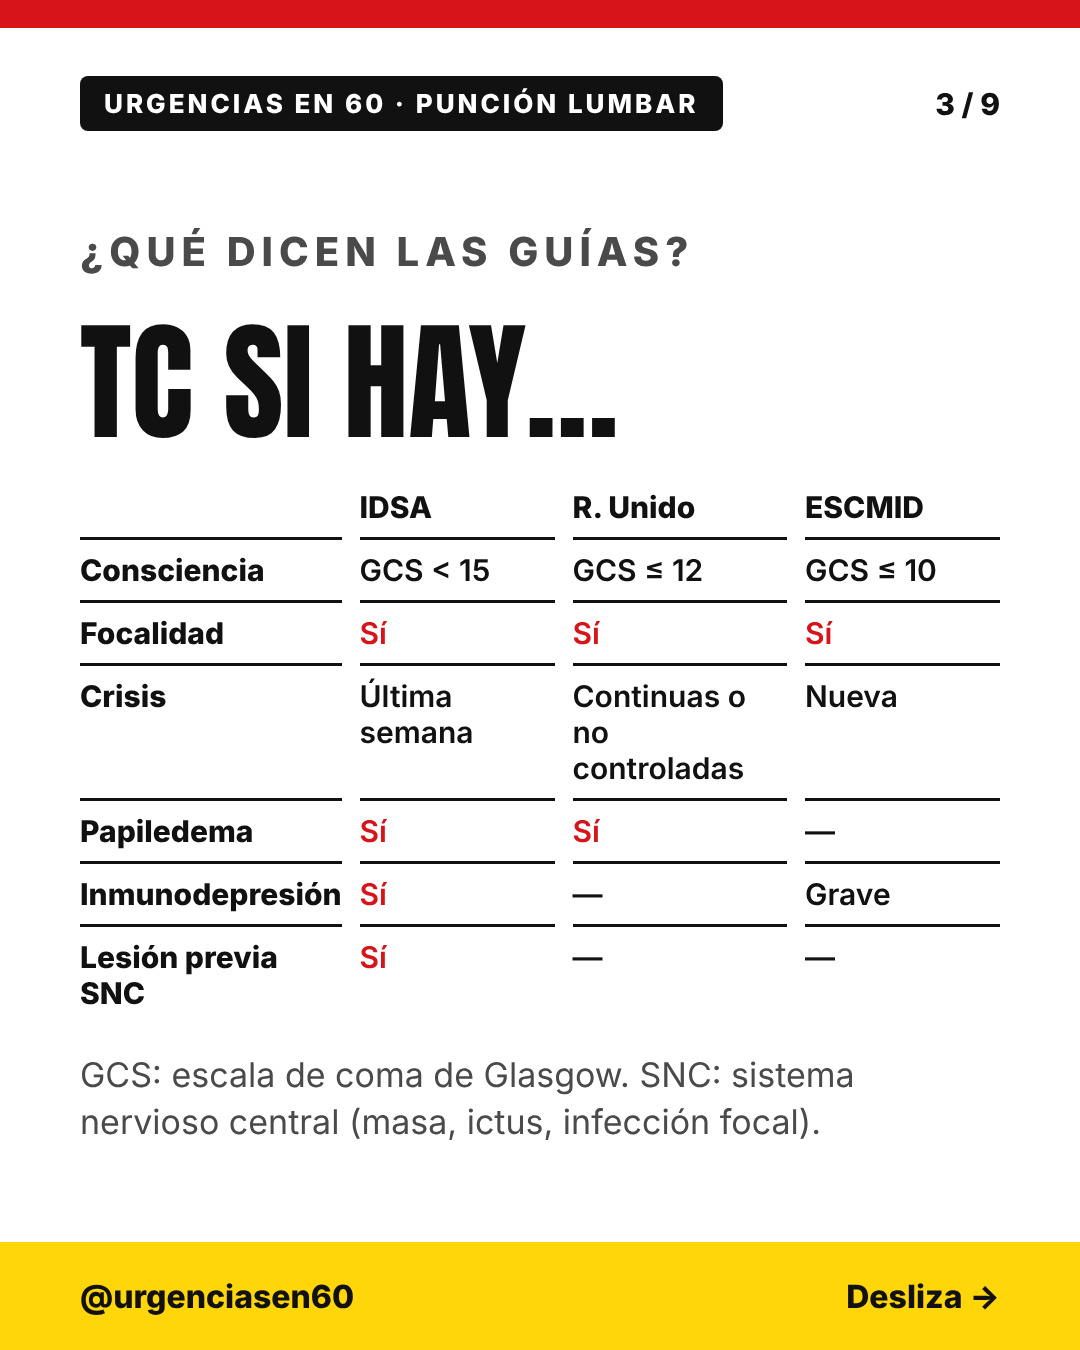
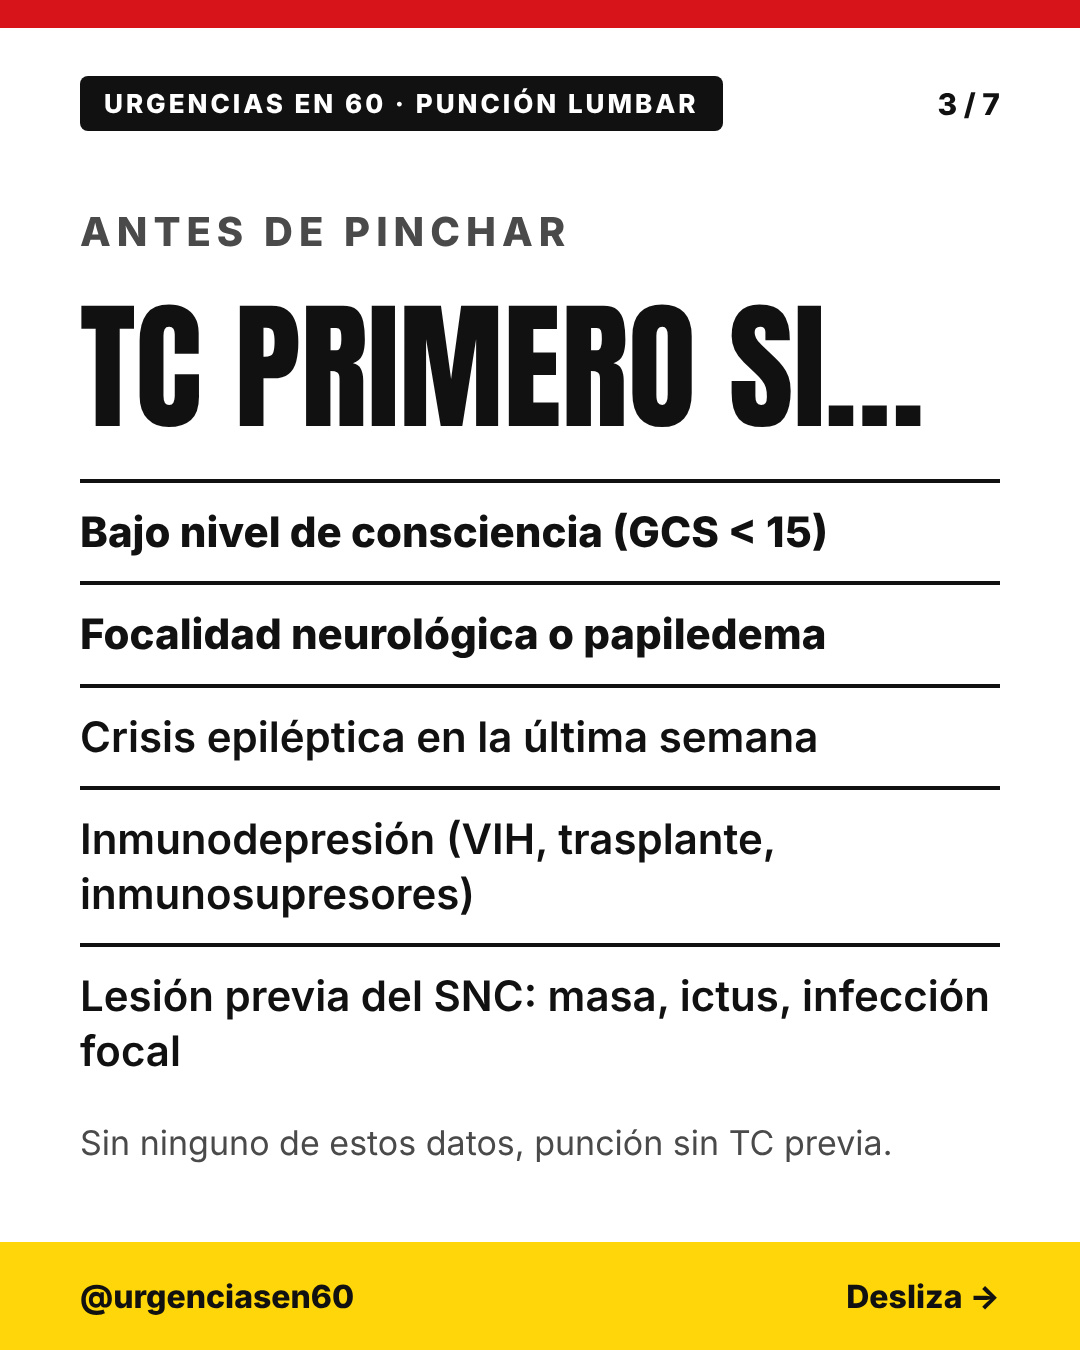
Ficha 08 práctica: indicaciones y contraindicaciones en Urgencias, sin comparativas
Claude-Session: https://claude.ai/code/session_019S5PG2ppqwuZwMv2DxeA6e

Changed region(s): [[0.0611, 0.1556, 0.9167, 0.8711], [0.8556, 0.0622, 0.9167, 0.0933], [0.7333, 0.5911, 0.7944, 0.6222]]

diff --git a/tools/pl_tc.py b/tools/pl_tc.py
@@ -1,24 +1,15 @@
 import os, sys; sys.path.insert(0, os.path.dirname(os.path.abspath(__file__)))
 from ficha import *
-T="PUNCIÓN LUMBAR"; N=9
+T="PUNCIÓN LUMBAR"; N=7
 note=lambda t: f'<div style="font-size:34px;line-height:1.4;color:{G}">{t}</div>'
 rows=lambda *x: '<div style="display:flex;flex-direction:column;gap:22px">'+"".join(x)+'</div>'
-def tabla():
-    H=["","IDSA","R. Unido","ESCMID"]
-    D=[("Consciencia","GCS &lt; 15","GCS ≤ 12","GCS ≤ 10"),("Focalidad","Sí","Sí","Sí"),("Crisis","Última semana","Continuas o no controladas","Nueva"),
-       ("Papiledema","Sí","Sí","—"),("Inmunodepresión","Sí","—","Grave"),("Lesión previa SNC","Sí","—","—")]
-    th="".join(f'<div style="font-weight:800;font-size:30px;color:{G if i==0 else K}">{h}</div>' for i,h in enumerate(H))
-    tr="".join("".join(f'<div style="font-size:30px;font-weight:{800 if j==0 else 600};border-top:3px solid {K};padding-top:12px;{"color:"+R if c=="Sí" else ""}">{c}</div>' for j,c in enumerate(r)) for r in D)
-    return f'<div style="display:grid;grid-template-columns:1.25fr 1fr 1.1fr 1fr;gap:12px 18px;align-items:start">{th}{tr}</div>'
 P=[
-page(1,N,T,big("¿TC ANTES DE LA PUNCIÓN LUMBAR?",128)+big(f'CASI <span style="color:{R}">NUNCA</span> DE RUTINA',118)+'<div style="font-size:40px;font-weight:600;line-height:1.3;max-width:820px">Cuándo pedirla en la sospecha de meningitis, qué dicen las guías y qué no debe retrasarse. Con ficha final.</div>',cover=True),
-page(2,N,T,kicker("LA IDEA CLAVE")+big("SOLO SI SOSPECHAS HIPERTENSIÓN INTRACRANEAL",104)+rows(line("La TC rutinaria no ha demostrado reducir el riesgo de herniación",True),line("Retrasa el diagnóstico y el antibiótico"),line("En pacientes de bajo riesgo, no está indicada"))),
-page(3,N,T,kicker("¿QUÉ DICEN LAS GUÍAS?")+big("TC SI HAY…",130)+tabla()+note("GCS: escala de coma de Glasgow. SNC: sistema nervioso central (masa, ictus, infección focal).")),
-page(4,N,T,kicker("¿CUÁL ELEGIR?")+big("LAS TRES DETECTAN LO MISMO",108)+rows(row("Pacientes analizados","196"),row("TC normal","92 %"),row("TC que contraindicó la punción","2 (edema difuso)"))+f'<div style="border-top:4px solid {K};padding-top:24px;font-size:40px;font-weight:800;line-height:1.3">Las 3 guías detectaban esos 2 casos. La IDSA pidió más TC (33 % frente a 10–14 %) sin encontrar ninguno más.</div>'),
-page(5,N,T,kicker("SI LA PUNCIÓN SE RETRASA")+big("EL ANTIBIÓTICO NO ESPERA",116,R)+rows(line("Hemocultivos y antibiótico empírico antes de la TC",True),line("Después, TC y punción lumbar cuando sea seguro"))+note("Esperar a la TC para empezar el antibiótico puede empeorar el pronóstico de la meningitis bacteriana.")),
-page(6,N,T,kicker("CONTRAINDICACIONES")+big("NO PINCHES SI…",140,nowrap=True)+rows(line("Infección de la piel en el punto de punción",True),line("Anticoagulación o coagulopatía sin corregir",True),line("Datos de hipertensión intracraneal con riesgo de herniación: primero TC"))+rows(row("Plaquetas","&gt; 40.000–50.000/µl"),row("INR","&lt; 1,5"))+note("Si las guías difieren, individualiza. Anticoagulantes y antiagregantes: suspensión según protocolo y riesgo trombótico.")),
-page(7,N,T,kicker("ANTIAGREGADOS")+big("¿SUSPENDO?",130,nowrap=True)+rows(row("Aspirina","No suspender, a cualquier dosis"),row("Clopidogrel","5–7 días (cubrir con aspirina)"),row("Ticagrelor","3–5 días (cubrir con aspirina)"),row("Prasugrel","7 días"),row("Reinicio","6 h tras la punción"))+f'<div style="border-top:4px solid {K};padding-top:22px;font-size:38px;font-weight:800;line-height:1.3;color:{R}">Punción urgente (meningitis, encefalitis): no la retrases, aunque tome doble antiagregación</div>'+note("Electiva con riesgo trombótico muy alto (stent farmacoactivo &lt; 12 meses): valorar mantener la doble antiagregación.")),
-page(8,N,T,kicker("ANTICOAGULADOS")+big("CUÁNTO ESPERAR",120,nowrap=True)+rows(row("ACOD","48 h con función renal normal"),row("Dabigatrán, FG 30–49","4 días"),row("HBPM profiláctica","12 h"),row("HBPM terapéutica","24 h"),row("Acenocumarol o warfarina","Hasta INR &lt; 1,5"),row("Reinicio","ACOD 6 h · HBPM 4 h (24 h si punción traumática)"))+note("Punción urgente en anticoagulado: consulta con Hematología (el dabigatrán se revierte con idarucizumab). ACOD: apixabán, rivaroxabán, edoxabán, dabigatrán.")),
-page(9,N,T,ficha_body("¿TC ANTES DE LA PL?","Adulto",[("REGLA","TC solo si hay datos de hipertensión intracraneal; no de rutina",True),("PIDE TC SI","Bajo nivel de consciencia, focalidad, crisis nueva o no controlada, papiledema, inmunodepresión grave"),("UMBRAL GCS","IDSA &lt; 15 · Reino Unido ≤ 12 · ESCMID ≤ 10: individualiza"),("NO RETRASES","Hemocultivos + antibiótico antes de la TC si la PL se demora",True),("NO PINCHES SI","Infección local, anticoagulación o coagulopatía sin corregir"),("CIFRAS","Plaquetas &gt; 40.000–50.000/µl · INR &lt; 1,5",True),("ANTIAGREG.","Aspirina: no suspender. Clopidogrel, ticagrelor, prasugrel: 3–7 días si es electiva; urgente, no retrasar")],"Herlihy FO, et al. Emerg Radiol 2024;31(3):373-9; Preevid 25020, 2023; Dodd KC, et al. Guía ABN 2026",size=96,fs=27),ficha="08"),
+page(1,N,T,big("PUNCIÓN LUMBAR",150,nowrap=True)+big(f'¿CUÁNDO <span style="color:{R}">SÍ</span> Y CUÁNDO NO?',120)+'<div style="font-size:40px;font-weight:600;line-height:1.3;max-width:820px">Indicaciones, TC previa y contraindicaciones en Urgencias. Con ficha final.</div>',cover=True),
+page(2,N,T,kicker("INDICACIONES EN URGENCIAS")+big("¿PARA QUÉ?",150,nowrap=True)+rows(line("Sospecha de meningitis o encefalitis",True),line("Sospecha de hemorragia subaracnoidea con TC normal"),line("Otras: síndrome de Guillain-Barré, hipertensión intracraneal idiopática"))),
+page(3,N,T,kicker("ANTES DE PINCHAR")+big("TC PRIMERO SI…",140,nowrap=True)+rows(line("Bajo nivel de consciencia (GCS &lt; 15)",True),line("Focalidad neurológica o papiledema",True),line("Crisis epiléptica en la última semana"),line("Inmunodepresión (VIH, trasplante, inmunosupresores)"),line("Lesión previa del SNC: masa, ictus, infección focal"))+note("Sin ninguno de estos datos, punción sin TC previa.")),
+page(4,N,T,kicker("SI LA PUNCIÓN SE RETRASA")+big("EL ANTIBIÓTICO NO ESPERA",116,R)+rows(line("Hemocultivos y antibiótico empírico antes de la TC",True),line("Después, TC y punción lumbar cuando sea seguro"))),
+page(5,N,T,kicker("CONTRAINDICACIONES")+big("NO PINCHES SI…",140,nowrap=True)+rows(line("Infección de la piel en el punto de punción",True),line("Efecto masa o signos de herniación en la TC",True),row("Plaquetas","&lt; 50.000/µl"),row("INR","≥ 1,5"))+note("Corrige antes de pinchar y valora con Hematología.")),
+page(6,N,T,kicker("ANTIAGREGADOS Y ANTICOAGULADOS")+big("¿CUÁNTO ESPERAR?",124,nowrap=True)+rows(row("Aspirina","No suspender"),row("Clopidogrel","5–7 días"),row("Ticagrelor","3–5 días"),row("Prasugrel","7 días"),row("ACOD","48 h"),row("HBPM","12 h profiláctica · 24 h terapéutica"))+f'<div style="border-top:4px solid {K};padding-top:20px;font-size:36px;font-weight:800;line-height:1.3;color:{R}">Urgente con antiagregantes: no retrases. Anticoagulado urgente: Hematología.</div>'),
+page(7,N,T,ficha_body("PUNCIÓN LUMBAR","Adulto",[("INDICACIÓN","Meningitis o encefalitis; HSA con TC normal"),("TC ANTES SI","GCS &lt; 15, focalidad, papiledema, crisis &lt; 1 semana, inmunodepresión, lesión previa SNC",True),("NO RETRASES","Hemocultivos + antibiótico antes de la TC",True),("NO PINCHES SI","Infección local, efecto masa, plaquetas &lt; 50.000/µl, INR ≥ 1,5"),("ANTIAGREG.","Aspirina: seguir. Clopidogrel 5–7 d, ticagrelor 3–5 d, prasugrel 7 d"),("ANTICOAG.","ACOD 48 h · HBPM 12 h (profiláctica) o 24 h (terapéutica)")],"IDSA (criterios de TC previa); Dodd KC, et al. Guía ABN 2026 (antitrombóticos)",size=120,fs=30),ficha="08"),
 ]
 render(P,sys.argv[1] if len(sys.argv)>1 else "out","pl-tc-antes")

diff --git a/borradores/REVISION.md b/borradores/REVISION.md
@@ -50,3 +50,4 @@ Nada de este lote está programado. Cada bloque recoge la fuente, lo que NO pude
 - Vídeo de 63,5 s rehecho con locución solo de técnica.
 - 18/11: Eduardo confirma hemocultivos antes de la TC, infección local y anticoagulación como contraindicaciones, cifras y solo adultos. Cifras de la guía ABN 2026 (Dodd KC, et al. Periprocedural antithrombotic management for lumbar puncture: ABN 2026 guideline update) y AABB (50.000/µl).
 - 18/11: añadidas diapositivas de antiagregados y anticoagulados (Ficha 08 pasa a 9 diapositivas). Fuente: Dodd KC, Ahmed F, Desborough M, Dobson R, Emsley HCA, Rizvi K, Chhetri SK. Periprocedural antithrombotic management for lumbar puncture: Association of British Neurologists 2026 guideline update (corrección oct 2026). [VERIFICAR] La guía es inconsistente entre texto (P2Y12 3–7 días) y tabla (clopidogrel 5–7, ticagrelor 3–5, prasugrel 7); se usa la tabla. «Acenocumarol hasta INR < 1,5» es extrapolación de la recomendación para warfarina.
+- 18/11 (tarde): Eduardo pide ficha práctica, una sola guía (la más conservadora) y sin comparativas. Rehecha a 7 diapositivas: indicaciones, TC previa (criterios IDSA, los más amplios), antibiótico, contraindicaciones (plaquetas < 50.000/µl, INR ≥ 1,5), antitrombóticos (ABN 2026). [VERIFICAR] Indicaciones (meningitis/encefalitis, HSA con TC normal, Guillain-Barré, HII) redactadas sin fuente consultada en esta sesión.
